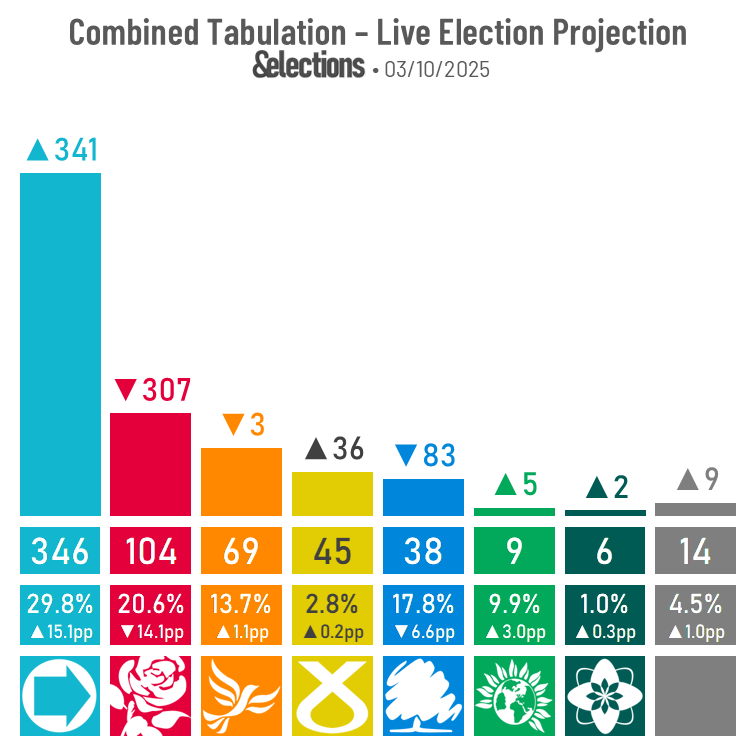
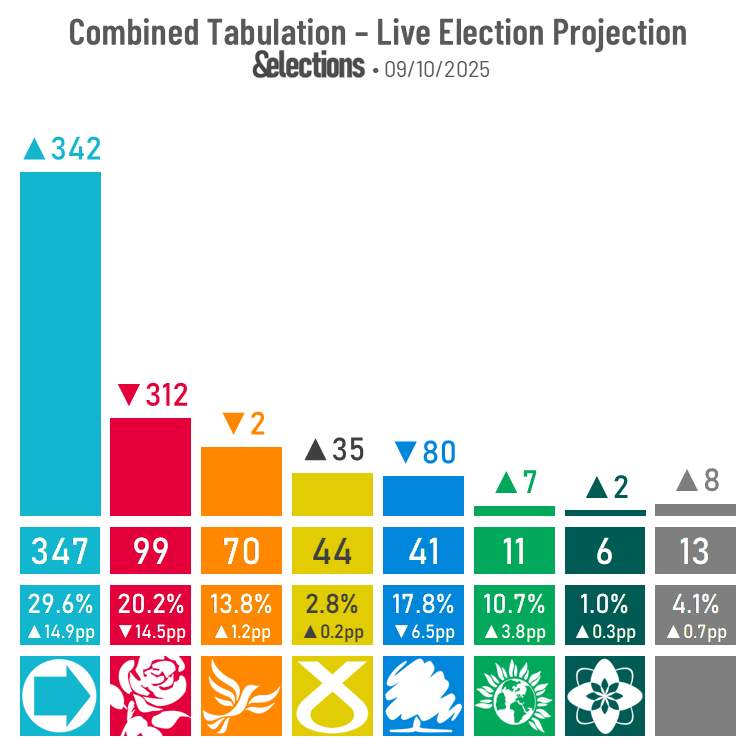
09/10/25 UK Projection
- Added blog update
- Updated images

diff --git a/index.html b/index.html
@@ -252,6 +252,10 @@
                 </div>
                 <div class="datacontainer" id="data-blog">
                     <div class="blogtitles-container">
+                        <a href="https://andelections.substack.com/p/091025-uk-projection-the-aftermath" title="Open article in new tab" target="_blank" rel="noopener noreferrer">
+                            <h2>09/10/25 UK Projection: The Aftermath of the Conferences</h2>
+                            <p>09 Oct 2025 • &Elections' projections for Reform and the Greens this week are their best ever, and Labour are set for fewer than 100 seats for the for the first time.</p>
+                        </a>
                         <a href="https://andelections.substack.com/p/031025-uk-projection-new-mrp-polls" title="Open article in new tab" target="_blank" rel="noopener noreferrer">
                             <h2>03/10/25 UK Projection: New MRP Polls Paint a Mixed Picture</h2>
                             <p>03 Oct 2025 • Reform are headed for 346 seats under &Elections' model as two new MRP polls illustrate how small swings could make all the difference.</p>
